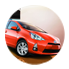
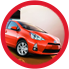
cambios en el slide de vehiculos, css, carga de imagenes desde la base de datos y funcionalidad de bullet

Changed region(s): [[0.0, 0.0, 1.0, 1.0]]

diff --git a/src/Celmedia/Toyocosta/VehiculosBundle/Resources/public/css/style.css b/src/Celmedia/Toyocosta/VehiculosBundle/Resources/public/css/style.css
@@ -69,11 +69,13 @@
 		width: 70px;
 		height: 69px;
 		border: 0px solid #fff;
-		border-radius: 75px;
-		background-color: #FFFFFF;
+		/*border-radius: 75px;
+		background-color: #FFFFFF;*/
 	}
+	/*POSICION PRECIO Y ACCESOS DE SLIDERS VEHICULOS*/
 	.position-caption{
-		margin-bottom: 90px;
+		left: 12%;
+		bottom: 32%;
 	}
  }
  
@@ -109,13 +111,15 @@
 	text-shadow: 0px 0px 0px transparent;
 }
 .glyphicon-chevron-left{
-	background-image: url("../../../web/img/Iconos/left.png");
+	/*background-image: url("../../../web/img/Iconos/left.png");*/
+	background-image: url(".../../../../../web/bundles/celmediatoyocostavehiculos/images/varios/left.png"); 
 	height: 105px;
 	width: 100%;
 	background-repeat: no-repeat;
 }
 .glyphicon-chevron-right{
-	background-image: url("../../../web/img/Iconos/right.png");
+	/*background-image: url("../../../web/img/Iconos/right.png");*/
+	background-image: url(".../../../../../web/bundles/celmediatoyocostavehiculos/images/varios/right.png"); 
 	height: 105px;
 	width: 100%;
 	background-repeat: no-repeat;
@@ -128,26 +132,72 @@
 .img-indicator{
 	margin-bottom: 12px;
 }
+.cuadro-precio{
+	background-image: url(".../../../../../web/bundles/celmediatoyocostavehiculos/images/varios/recuadro-precio.png");
+	background-repeat: no-repeat; 
+	height: 70px;
+	padding-left: 14px;
+	padding-right: 14px;
+	padding-top: 2px;
+}
 .cuadro-caption{
-	border-left: 2px solid red;
+	/*border-left: 2px solid red;
 	border-top-right-radius: 5px;
 	background-image: url("../../../web/img/Autos-box/Fondo.png");
-	height: 80px;
+	height: 80px;*/
+
+	background-image: url(".../../../../../web/bundles/celmediatoyocostavehiculos/images/varios/recuadro-accesos.png"); 
+	background-repeat: no-repeat;
+	height: 149px;
+}
+.txt-caption{
+    font-size: 18px;
+    text-align: left;
+    color: #000000;
+    margin-top: 5px;
+	margin-bottom: 1px;
+}
+.parrafo-caption{
+	font-size: 12px;
+    text-align: left;
+    color: #000000;
+}
+.precio-caption{
+	font-size: 34px;
+    color: #DF192A;
+    font-weight: bold;
 }
 .list-caption{
-	padding-left: 16px;
 	text-align: left;
+	padding-left: 0px;
 }
-.link-caption{
+.link-caption {
 	list-style-type: none;
-	border-bottom: 1px solid #555555;
-	margin-right: 18px;
+	border-bottom: 1px solid #63676A;
+	margin-left: 18px;
+	margin-right: 28px;
+	padding: 13px;
 }
-.link-caption a{
-	text-decoration: none;
+.link-caption:hover{
+	background-image: url(".../../../../../web/bundles/celmediatoyocostavehiculos/images/varios/mayorq.png"); 
+	background-repeat: no-repeat;
+	background-position: 145px 18px;
+}
+.link{
 	color: #FFFFFF;
 	font-size: 14px;
 }
-.borde-diagonal{
-
+.link:hover{
+	text-decoration: none;
+	color: #FFFFFF;
+}
+.distancia{
+	margin-bottom: 74px;
+}
+.fondo-bullet{
+	width: 70px;
+	height: 69px;
+	border: 0px solid #fff;
+	border-radius: 75px;
+	background-color: #FFFFFF;
 }

diff --git a/src/Celmedia/Toyocosta/PirelliBundle/Resources/public/css/menu.toyocosta.css b/src/Celmedia/Toyocosta/PirelliBundle/Resources/public/css/menu.toyocosta.css
@@ -19,7 +19,9 @@
 	padding-right: 0px;
 }
 .icon-facebook{
-	background-image: url('../../web/bundles/celmediatoyocostapirelli/images/Iconos/facebook.png');
+	/*SE MODIFICO PARA QUE APAREZCAN LAS IMGS EN EL LOCAL*/
+	/*background-image: url('../../web/bundles/celmediatoyocostapirelli/images/Iconos/facebook.png');*/
+	background-image: url('../../../web/bundles/celmediatoyocostapirelli/images/Iconos/facebook.png');
 	background-repeat: no-repeat;
 	background-position: 0px 0px;
 	height: 35px;
@@ -27,7 +29,8 @@
 	width: 34px;
 }
 .icon-twitter{
-	background-image: url('../../web/bundles/celmediatoyocostapirelli/images/Iconos/twitter.png');
+	/*background-image: url('../../web/bundles/celmediatoyocostapirelli/images/Iconos/twitter.png');*/
+	background-image: url('../../../web/bundles/celmediatoyocostapirelli/images/Iconos/twitter.png');
 	background-repeat: no-repeat;
 	background-position: 0px 0px;
 	height: 35px;
@@ -35,7 +38,8 @@
 	width: 34px;
 }
 .btn-buscar{
-	background-image: url('../../web/bundles/celmediatoyocostapirelli/images/Iconos/buscador.png');
+	/*background-image: url('../../web/bundles/celmediatoyocostapirelli/images/Iconos/buscador.png');*/
+	background-image: url('../../../web/bundles/celmediatoyocostapirelli/images/Iconos/buscador.png');
 	background-repeat: no-repeat;
 	background-position: 0px -57px;
 	height: 50px;
@@ -44,7 +48,8 @@
 	padding: 6px 28px;
 }
 .btn-buscar:hover{
-	background-image: url('../../web/bundles/celmediatoyocostapirelli/images/Iconos/buscador.png');
+	/*background-image: url('../../web/bundles/celmediatoyocostapirelli/images/Iconos/buscador.png');*/
+	background-image: url('../../../web/bundles/celmediatoyocostapirelli/images/Iconos/buscador.png');
 	background-repeat: no-repeat;
 	background-position: 0px 0px;
 	height: 50px;

diff --git a/src/Celmedia/Toyocosta/VehiculosBundle/Resources/public/js/script.toyocosta.js b/src/Celmedia/Toyocosta/VehiculosBundle/Resources/public/js/script.toyocosta.js
@@ -1,5 +1,11 @@
 $(document).ready(function(){
 
+	// $('#carousel-vehiculos').on('slide.bs.carousel', function () {
+	//   	$('.miniaturas.active').each(function() {
+	// 		$(this).find("img").show();
+
+	// 	});
+	// });
 
 
 });

diff --git a/src/Celmedia/Toyocosta/VehiculosBundle/Resources/public/css/resetvehiculos.css b/src/Celmedia/Toyocosta/VehiculosBundle/Resources/public/css/resetvehiculos.css
@@ -1,0 +1,3 @@
+.carousel-caption{
+	text-shadow: 0 0px 0px rgba(255, 255, 255, 0);
+}

diff --git a/src/Celmedia/Toyocosta/VehiculosBundle/Controller/DefaultController.php b/src/Celmedia/Toyocosta/VehiculosBundle/Controller/DefaultController.php
@@ -6,10 +6,7 @@ use Symfony\Bundle\FrameworkBundle\Controller\Controller;
 
 class DefaultController extends Controller
 {
-    // public function indexAction($name)
-    // {
-    //     return $this->render('CelmediaToyocostaVehiculosBundle:Default:index.html.twig', array('name' => $name));
-    // }
+
     public function indexAction()
     {
 
@@ -18,7 +15,5 @@ class DefaultController extends Controller
 		$slideVehiculos =$em->getRepository('CelmediaToyocostaVehiculosBundle:SlideVehiculos')->findBy(array("estado"=> 1 ));
 
         return $this->render('CelmediaToyocostaVehiculosBundle::layout.html.twig' , array( "slideVehiculos" => $slideVehiculos ));
-
-        // return $this->render('CelmediaToyocostaVehiculosBundle::layout.html.twig');
     }
 }
